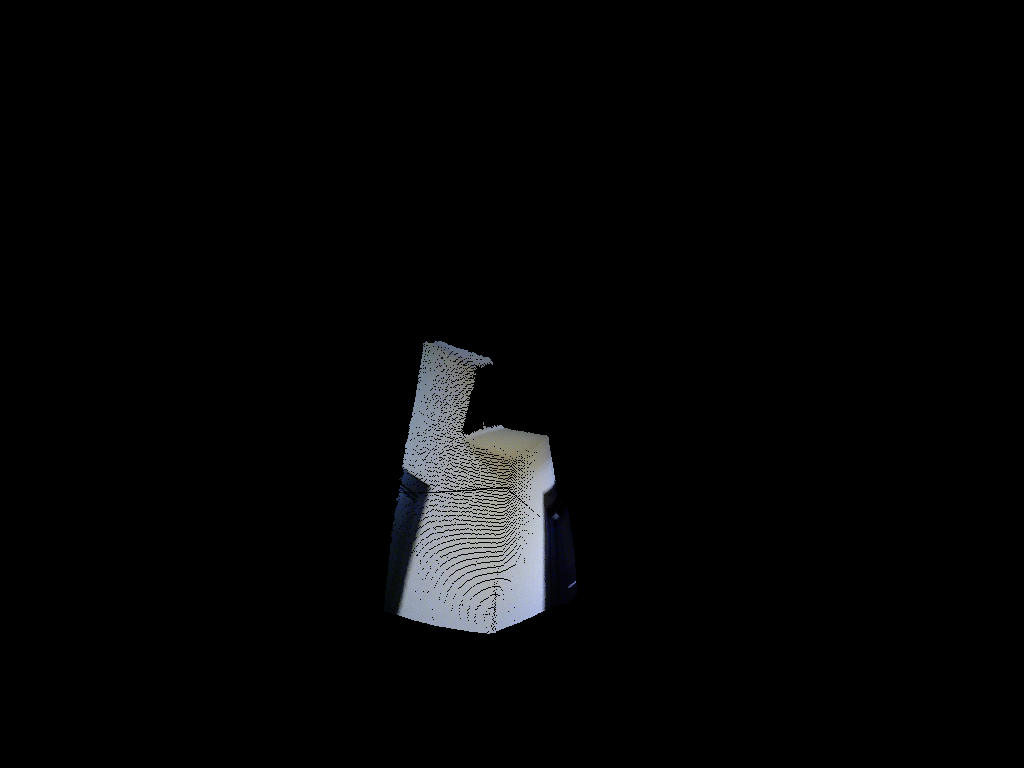
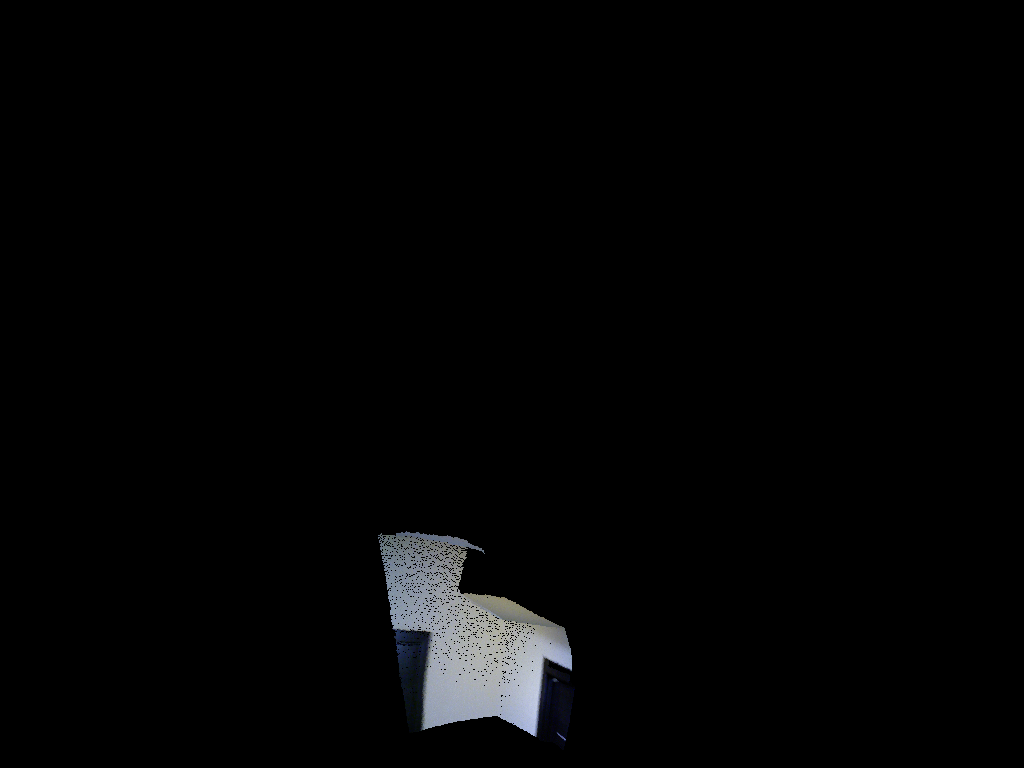
Add files via upload
Bug fixes with RGB-D to cartesian conversion.

Changed region(s): [[0.375, 0.4375, 0.5625, 0.9688]]

diff --git a/src/rgbd_viewer.cpp b/src/rgbd_viewer.cpp
@@ -18,14 +18,14 @@
 
 
 // Camera presets
-const float FOV_hor = 45.f * M_PI / 180.f;
+const float FOV_hor = 58.f * M_PI / 180.f;
 const float FOV_hor_2 = FOV_hor / 2.f;
-const float FOV_vert = 58.f * M_PI / 180.f;
+const float FOV_vert = 45.f * M_PI / 180.f;
 const float FOV_vert_2 = FOV_vert / 2.f;
 // Output image settings
 const int ImageWidth = 1024;
 const int ImageHeight = 768;
-#define AXONOMETRIC_SCALE (0.25f)
+#define AXONOMETRIC_SCALE (0.125f)
 
 
 bool load_depth_map(std::vector<std::vector<uint16_t>> &depth_map,
@@ -81,27 +81,35 @@ void calculate_cartesian(std::vector<std::vector<point3d>> &coords,
 
     int center_width = (cols + 1) / 2;
     int center_height = (rows + 1) / 2;
-
-    float dist_to_camera = center_width / std::tanf(FOV_hor_2);
+    float add_w = cols % 2 ? 0.f : 0.5f;
+    float add_h = rows % 2 ? 0.f : 0.5f;
+    
+    float dist_to_camera = (float)center_width / std::tanf(FOV_hor_2);
+    
     std::vector<float> teta(rows);
     for (int i = 0; i < center_height; i++)
     {
-        float angle = std::atan2f(center_height - i, dist_to_camera);
-        teta[i] = M_PI_4 - angle;
-        teta[rows - 1 - i] = M_PI_4 + angle;
+        float angle = std::atan2f(center_height - i - add_h, dist_to_camera);
+        teta[i] = M_PI_2 - angle;
+        teta[rows - 1 - i] = M_PI_2 + angle;
     }
     std::vector<float> fi(cols);
     for (int i = 0; i < center_width; i++)
     {
-        float angle = std::atan2f(center_width - i, dist_to_camera);
+        float angle = std::atan2f(center_width - i - add_w, dist_to_camera);
         fi[i] = M_PI_4 - angle;
         fi[cols - 1 - i] = M_PI_4 + angle;
     }
 
     for (int r = 0; r < rows; r++)
         for (int c = 0; c < cols; c++)
-            coords[r][c] = spherical_to_cartesian((float)depth_map[r][c],
-                teta[r], fi[c]);
+        {
+            float radius = std::sqrtf(std::powf(r - rows / 2.f, 2.f) +
+                std::powf(c - cols / 2.f, 2.f));
+            float real_length = (float)depth_map[r][c] /
+                std::cosf(std::atan2f(radius, dist_to_camera));
+            coords[r][c] = spherical_to_cartesian(real_length, teta[r], fi[c]);
+        }
 }
 
 void create_axonometry(cv::Mat &out,
@@ -120,11 +128,11 @@ void create_axonometry(cv::Mat &out,
 
             const point3d &p = coords[r][c];            
             float x = (p.y - p.x) * std::cosf(M_PI / 6);
-            float y = -p.z + (p.x + p.y) * std::sinf(M_PI / 6);
+            float y = -p.z + -(p.x + p.y) * std::sinf(M_PI / 6); 
             x *= AXONOMETRIC_SCALE;
             y *= AXONOMETRIC_SCALE;
             x += ImageWidth / 2;
-            y += ImageHeight * 0.75f;
+            y += ImageHeight;
 
             if (x >= 0 && x < ImageWidth && y >= 0 && y < ImageHeight)
                 out.at<cv::Vec3b>(cv::Point(x, y)) = color;
